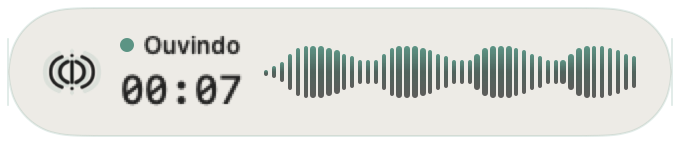
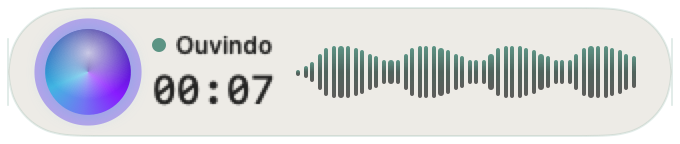
feat: show voice reactive orb in recording HUD

Changed region(s): [[0.0309, 0.1111, 0.9265, 0.8889]]

diff --git a/Sources/WhisperKey/RecordingWaveformView.swift b/Sources/WhisperKey/RecordingWaveformView.swift
@@ -97,21 +97,42 @@ struct RecordingWaveformView: View {
 
     private var resonatingMark: some View {
         let shouldReduceMotion = fixtureReduceMotion ?? reduceMotion
+        let level = RecordingResonance.normalized(meter.currentLevel)
         return ZStack {
-            Image("ResenhaMark")
-                .resizable()
-                .renderingMode(.template)
-                .scaledToFit()
-                .foregroundStyle(ResenhaTheme.signal)
-                .opacity(RecordingResonance.haloOpacity(level: meter.currentLevel, reduceMotion: shouldReduceMotion))
-                .scaleEffect(RecordingResonance.haloScale(level: meter.currentLevel, reduceMotion: shouldReduceMotion))
-            Image("ResenhaMark")
-                .resizable()
-                .renderingMode(.template)
-                .scaledToFit()
-                .foregroundStyle(.primary)
-                .scaleEffect(RecordingResonance.markScale(level: meter.currentLevel, reduceMotion: shouldReduceMotion))
+            Circle()
+                .fill(Color(red: 0.36, green: 0.24, blue: 0.95)
+                    .opacity(0.22 + Double(RecordingResonance.haloOpacity(
+                        level: meter.currentLevel, reduceMotion: shouldReduceMotion
+                    ))))
+                .blur(radius: 7)
+                .scaleEffect(RecordingResonance.haloScale(
+                    level: meter.currentLevel, reduceMotion: shouldReduceMotion
+                ))
+            Circle()
+                .fill(AngularGradient(
+                    colors: [
+                        Color(red: 0.61, green: 0.26, blue: 1),
+                        Color(red: 0.30, green: 0.76, blue: 0.91),
+                        Color(red: 0.06, green: 0.08, blue: 0.60),
+                        Color(red: 0.61, green: 0.26, blue: 1)
+                    ],
+                    center: .center
+                ))
+                .overlay {
+                    Circle()
+                        .fill(RadialGradient(
+                            colors: [.white.opacity(0.78), .clear],
+                            center: .init(x: 0.37, y: 0.32),
+                            startRadius: 0,
+                            endRadius: 24
+                        ))
+                }
+                .scaleEffect(RecordingResonance.markScale(
+                    level: meter.currentLevel, reduceMotion: shouldReduceMotion
+                ))
+                .rotationEffect(.degrees(shouldReduceMotion ? 0 : Double(level) * 90))
+                .shadow(color: Color(red: 0.30, green: 0.76, blue: 0.91).opacity(0.35), radius: 5)
         }
-        .frame(width: 28, height: 28)
+        .frame(width: 44, height: 44)
     }
 }
